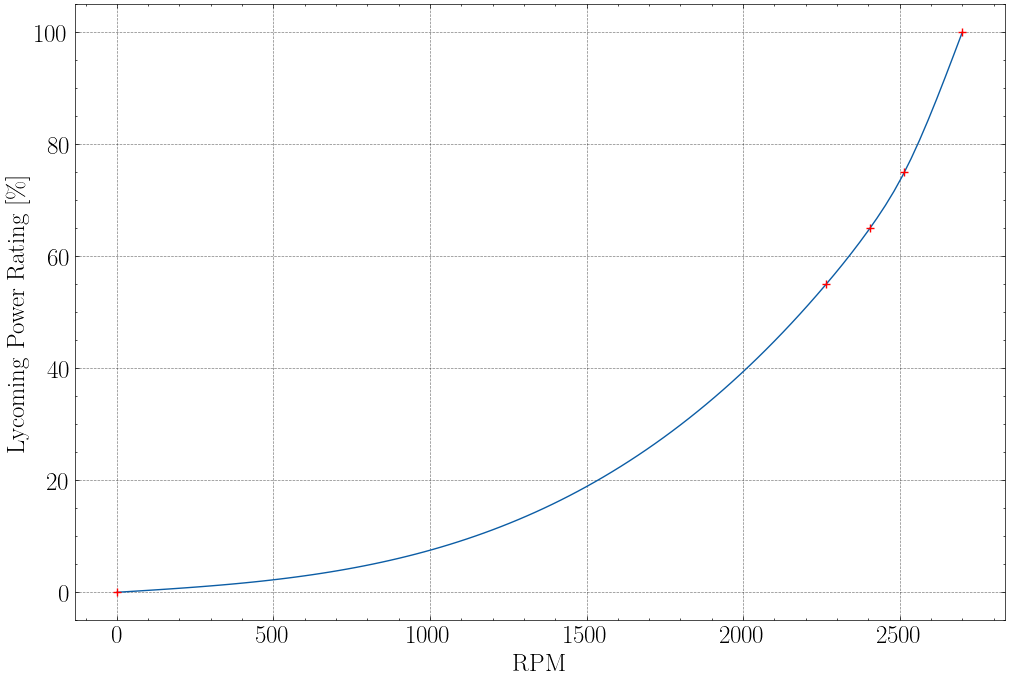
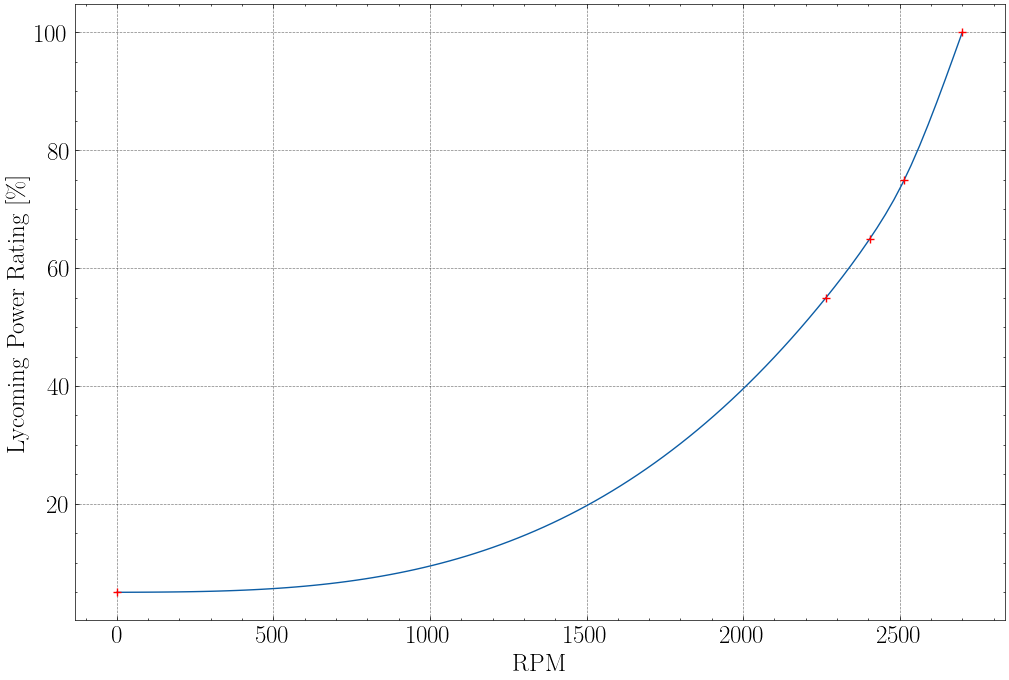
No changes to version control permitted today

diff --git a/RangeTradeLoad.py b/RangeTradeLoad.py
@@ -1,39 +1,86 @@
 from ImportAPCSE import *
 # from PiperArcherIII_Blueprint import *
 import pickle
-
-# Unpickling (Deserialization)
-filepath = r"C:\APCSE\DataFiles\range_trade_dump\electric\energy-density-265Wh_kg\reserves"
-
 import os
-# Get the list of all files and directories
-path = filepath
-dir_list = os.listdir(path)
-print("Files and directories in '", path, "' :")
-# prints all files
-print(dir_list)
+
+filepaths = [r"C:\APCSE\DataFiles\range_trade_dump\electric\energy-density-265Wh_kg\reserves", r"C:\APCSE\DataFiles\range_trade_dump\piston"]
+# Unpickling (Deserialization)
+# filepath = r"C:\APCSE\DataFiles\range_trade_dump\electric\energy-density-265Wh_kg\reserves"
+
+missionTypes = ["electric_reserves", "piston"]
+for missionType, filepath in zip(missionTypes, filepaths):
+    # Get the list of all files and directories
+    path = filepath
+    dir_list = os.listdir(path)
+    print("Files and directories in '", path, "' :")
+
+    # h_p = 500
+    # vInfty = 80
+    # Range = 0
+    Range_List = []
+    vInfty_List = []
+    h_p_List = []
+    full = []
+    for filename in dir_list:
+        with open(filepath+"\\"+filename, 'rb') as file:
+            loaded_data = pickle.load(file)
+        Range_List.append(loaded_data["range [nmi]"])
+        h_p_List.append(loaded_data["h_p [ft]"])
+        vInfty_List.append(loaded_data["vInfty [knots]"])
+        full.append([loaded_data["h_p [ft]"], loaded_data["vInfty [knots]"], loaded_data["range [nmi]"]])
+        # print(loaded_data["range [nmi]"])
+    Range_List = np.array(Range_List)
+    vInfty_List = np.array(vInfty_List)
+    h_p_List = np.array(h_p_List)
+    full = np.array(full)
+
+    vArr = []
+    hpArr = []
+    for v in vInfty_List:
+        if v not in vArr:
+            vArr.append(v)
+    for h in h_p_List:
+        if h not in hpArr:
+            hpArr.append(h)
+
+    vArr.sort()
+    hpArr.sort()
+
+    vhUnsorted = full[:,:2]
+    RangeSorted = []
+    X, Y = np.meshgrid(vArr, hpArr)
+    R = np.zeros(X.shape)
+
+    for i, h in enumerate(hpArr):
+        for j, v in enumerate(vArr):
+            sub_array = np.array([h,  v])
+            index = None
+            for k in range(vhUnsorted.shape[0]):
+                if np.array_equal(sub_array, vhUnsorted[k]):
+                    index = k
+            if index == None:
+                raise Exception("Cry")
+            R[i,j] = Range_List[index]
 
 
 
-# h_p = 500
-# vInfty = 80
-# Range = 0
-Range_List = []
-vInfty_List = []
-h_p_List = []
-for filename in dir_list:
-    with open(filepath+"\\"+filename, 'rb') as file:
-        loaded_data = pickle.load(file)
-    Range_List.append(loaded_data["range [nmi]"])
-    h_p_List.append(loaded_data["h_p [ft]"])
-    vInfty_List.append(loaded_data["vInfty [knots]"])
-    # print(loaded_data["range [nmi]"])
-Range_List = np.array(Range_List)
-vInfty_List = np.array(vInfty_List)
-h_p_List = np.array(h_p_List)
+    RangeMax = Range_List.max()
+    vInfty_maxRange = vInfty_List[Range_List==RangeMax][0]
+    hp_maxRange = h_p_List[Range_List==RangeMax][0]
+    figsize = (5,6)
+    plt.figure(figsize=figsize, constrained_layout = True)
+    contour = plt.contourf(X, Y, R, levels = 50, cmap="inferno", vmin = 0)
+    bar = plt.colorbar(contour)
+    bar.set_label("Range [nmi]")
+    plt.xlabel(r"Cruise Speed - ($V_\infty$) [knots]")
+    plt.ylabel(r"Cruise Altitude - ($h$) [ft]")
+    plt.gca().yaxis.set_major_formatter(mpl.ticker.StrMethodFormatter('{x:,.0f}'))
+    hp_maxRange_str = str(int(hp_maxRange))
+    if len(hp_maxRange_str) == 4:
+        hp_maxRange_str = hp_maxRange_str[0] + "," + hp_maxRange_str[1:]
+    plt.plot(vInfty_maxRange, hp_maxRange, "ro", label = "Maximum Range: {} nmi \nat {} knots and {} ft".format(round(RangeMax), int(vInfty_maxRange), hp_maxRange_str))
+    plt.legend()
 
-RangeMax = Range_List.max()
-vInfty_maxRange = vInfty_List[Range_List==RangeMax][0]
-hp_maxRange = h_p_List[Range_List==RangeMax][0]
-
-print("Max range found: {} nmi at h_p: {} ft and vInfty: {} knots".format(RangeMax, hp_maxRange, vInfty_maxRange))
+    plt.savefig("Images_From_Code\\Range_Trade\\{}.png".format(missionType))
+    # plt.show()
+    print("Max range found: {} nmi at h_p: {} ft and vInfty: {} knots".format(RangeMax, hp_maxRange, vInfty_maxRange))

diff --git a/RangeTradeDump.py b/RangeTradeDump.py
@@ -2,29 +2,6 @@ from ImportAPCSE import *
 from PiperArcherIII_Blueprint import *
 import pickle
 
-MGTOWCase = Mass(PiperArcherIII_Dict, 340, 0, 0, 0)
-Motor = [21, 90/12*0.3048]
-Inverter = [10, 90/12*0.3048]
-BP = [[262., 91/12*0.3048]]
-ECU = [86.5, 90/12*0.3048]
-BMS = [39.9, 90/12*0.3048]
-energyDensity = 265
-energyDensity_ESS = energyDensity * 0.6238738739 # Wh/kg
-MGTOWCase.electrify(*Motor, *Inverter, *ECU, *BMS, energyDensity_ESS, BP)
-
-
-ElectricArcherAircraft = Aircraft(AircraftName, PiperArcherIII_Dict, 
-                          Wings = ArcherWings, 
-                          HorizontalStabilizer = ArcherHorizontalStabilizer, 
-                          Fuselage = ArcherFuselage, 
-                          VerticalStabilizer = ArcherVerticalStabilizer, 
-                          Engine = ElectricArcherEngine,
-                          Mass = MGTOWCase)
-
-
-
-
-
 
 
 ####################################################
@@ -39,13 +16,9 @@ ElectricArcherAircraft = Aircraft(AircraftName, PiperArcherIII_Dict,
 # exit()
 ####################################################
 tol = 0.1
-h_pMax = 1000
-dist = 0
+
 
 percent = 100
-
-h_p = 500
-vInfty = 80
 
 useReserve = True
 electric = True
@@ -56,27 +29,40 @@ else:
     reserveText = "no-reserves"
 
 
-filepath = "DataFiles\\range_trade_dump\\electric\\energy-density-{}Wh_kg\\{}\\".format(energyDensity, reserveText)
 filepath = "DataFiles\\range_trade_dump\\piston\\".format(energyDensity, reserveText)
+filepath = "DataFiles\\range_trade_dump\\electric\\energy-density-{}Wh_kg\\{}\\".format(energyDensity, reserveText)
 
 if not os.path.exists(filepath):
     os.makedirs(filepath)
 
 
+char = filepath[27]
+
 #################################################################################
 vInfty_arr = np.array([70, 80, 90, 100, 110, 120, 130, 140]).astype(float)
-vInfty_arr = [140]
+# vInfty_arr = [140]
 h_p_arr = np.arange(500, 10500, 1000).astype(float)
-h_p_arr = [9500]
-controlArcher = Control(ArcherAircraft)
+# h_p_arr = [9500]
+if char == "e":
+    controlArcher = Control(ElectricArcherAircraft)
+elif char == "p":
+    controlArcher = Control(ArcherAircraft)
+else:
+    raise Exception("There's an error here buddy!")
 #################################################################################
+
 
 for vInfty in vInfty_arr:
     # Iterate over a range of velocities
     for h_p in h_p_arr:
         # Iterate over a range of altitudes
-        Range = 200
-        Range = 350
+        if char == "e":
+            Range = 20
+        elif char == "p":
+            Range = 300
+        else:
+            raise Exception("There's an error here buddy!")
+        
         percent = 100
         # h_p = 10500; vInfty = 140
         while np.abs(percent) > tol or percent < 0:
@@ -93,7 +79,12 @@ for vInfty in vInfty_arr:
             if np.abs(percent) < tol and percent < 0:
                 Range -= tol*0.9
             else:
-                Range += percent * 4.0
+                if char == "e":
+                    Range += percent
+                elif char == "p":
+                    Range += percent * 3.0
+                else:
+                    raise Exception("There's an error here buddy!")
 
         filename = "vInfty-{}_h_p-{}.pickle".format(vInfty,h_p,data["range [nmi]"])
         with open(filepath+filename, "wb") as file:

diff --git a/flight_envelope.py b/flight_envelope.py
@@ -89,7 +89,7 @@ vmax = convMax
 if eMax > convMax:
     vmax = eMax
 
-figsize = (8,10)
+figsize = (6,7)
 
 plt.figure(figsize=figsize)
 plt.plot([np.sqrt(Weight/(0.5*rho(PA28_service_ceiling)*S_ref*C_L_max))*mps_to_knots, KTAS_NE], [PA28_service_ceiling, PA28_service_ceiling], "--", color = "k", label = "POH Service Ceiling")
@@ -107,14 +107,14 @@ plt.ylabel(r"Altitude ($h$) [ft]")
 plt.xlim(0,KTAS_NE*stretch)
 plt.gca().xaxis.set_major_locator(MaxNLocator(prune='lower'))
 plt.savefig("Images_From_Code\\Flight_Envelope\\Flight_Envelope_Piston.png")
-plt.show()
+# plt.show()
 
 plt.figure(figsize=figsize)
 plt.plot([np.sqrt(Weight/(0.5*rho(PA28_service_ceiling)*S_ref*C_L_max))*mps_to_knots, KTAS_NE], [PA28_service_ceiling, PA28_service_ceiling], "--", color = "k", label = "POH Service Ceiling")
 plt.plot(KTAS_Stall, h_arr, "k--", label = "Stall")
 plt.plot(KTAS_NE*np.ones(h_arr.shape), h_arr, "k--", label = "Structural Limit")
 lines = plt.gca().get_lines()
-labelLines(lines, fontsize = 14, xvals=[119, 68.9, 182], yoffsets=[0,0,10000])
+labelLines(lines, fontsize = 11, xvals=[119, 68.9, 182], yoffsets=[0,0,10000])
 contour = plt.contourf(vTensor, hTensor, EPsTensor, levels = 50, cmap="plasma", vmin = 0, vmax = vmax)
 bar = plt.colorbar(contour)
 bar.set_label("$P_s$ [ft/s]")
@@ -125,4 +125,4 @@ plt.ylabel(r"Altitude ($h$) [ft]")
 plt.xlim(0,KTAS_NE*stretch)
 plt.gca().xaxis.set_major_locator(MaxNLocator(prune='lower'))
 plt.savefig("Images_From_Code\\Flight_Envelope\\Flight_Envelope_Electric.png")
-plt.show()
+# plt.show()

diff --git a/Propulsion/Engine.py b/Propulsion/Engine.py
@@ -153,7 +153,7 @@ class PistonEngine(Powerplant):
         #####################################################################
         # Testing for engine performance
         tau_arr = np.array([0, 2265, 2405, 2515, 2700])/2700
-        rating_arr = np.array([0, 55, 65, 75, 100])/100
+        rating_arr = np.array([5, 55, 65, 75, 100])/100
         R_m_func = make_smoothing_spline(tau_arr, rating_arr, lam=0)
         return R_m_func(self.Throttle)
         import matplotlib.pyplot as plt
@@ -213,6 +213,8 @@ class PistonEngine(Powerplant):
             etaFuel = 0.9
         self.V_Fuel = self.V_displacement/(1+self.AirFuel_ratio*self.Fuel_Density/self.rho) # m^3
         self.Fuel_Consumption = self.V_Fuel*self.Fuel_Density*(self.RPM/2)/60/etaFuel  # kg/s
+        if self.RPM < 250:
+            self.Fuel_Consumption = self.V_Fuel*self.Fuel_Density*(150)/60/etaFuel
         mdot = - self.Fuel_Consumption
         self.gal_hour = self.Fuel_Consumption/self.Fuel_Density*60**2/sp.constants.gallon
 

diff --git a/Control/MissionPhase/Descent.py b/Control/MissionPhase/Descent.py
@@ -32,9 +32,8 @@ class Descent(Climb):
             self.Aircraft.Set_Lift()
             self.Get_Aircraft_Attr(True)
             deltamV = (self.Thrust*np.cos(self.alpha) - self.Weight*np.sin(self.Aircraft.Pitch) - self.Drag)
-            self.RPM -= deltamV/5
+            self.RPM -= deltamV/2
             i += 1
-
             if self.RPM == 0 or i > 200:
                 print("RPM: ", self.RPM)
                 print(i, "Iterations")
